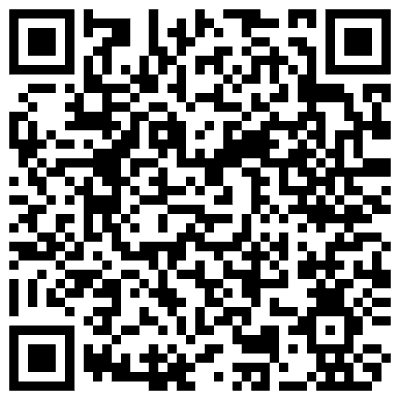
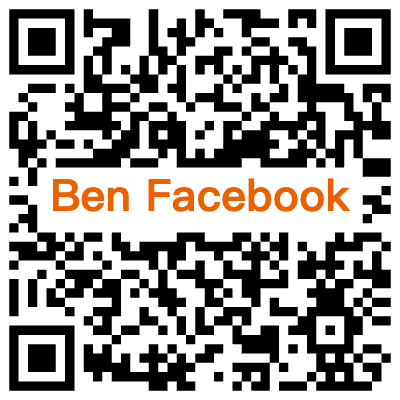
feat: add QR code

Changed region(s): [[0.09, 0.42, 0.93, 0.6]]

diff --git a/output/index.html b/output/index.html
@@ -743,6 +743,16 @@ ETF and Chill
 
 # Thank You
 
+
+                  </textarea>
+                </section>
+              
+                <section data-markdown>
+                  <textarea data-template>
+                    
+
+
+<img src="media/QR_facebook.png" width="300vw"> <img src="media/QR_slides.png" width="300vw"> <img src="media/QR_R_Ladies_Taipei.png" width="300vw">
                   </textarea>
                 </section>
               

diff --git a/slides.md b/slides.md
@@ -1,5 +1,5 @@
-## 投資？就交給
-# 高級伴讀書僮- GPT
+# 有 GPT 陪伴的
+# 投資之路
 陳奎銘 Ben
 
 
@@ -212,8 +212,8 @@ Note:
 - Time: 214 hours
     - Build Vector Store: 190 hours
     - Get Confidence Score: 24 hours
-- Storage: ~115 G
 - 4 core CPU + 16G RAM 
+- Storage: ~115 G
 
 
 
@@ -352,3 +352,8 @@ ETF and Chill
 ----
 
 # Thank You
+
+----
+
+
+<img src="media/QR_facebook.png" width="300vw"> <img src="media/QR_slides.png" width="300vw"> <img src="media/QR_R_Ladies_Taipei.png" width="300vw">
